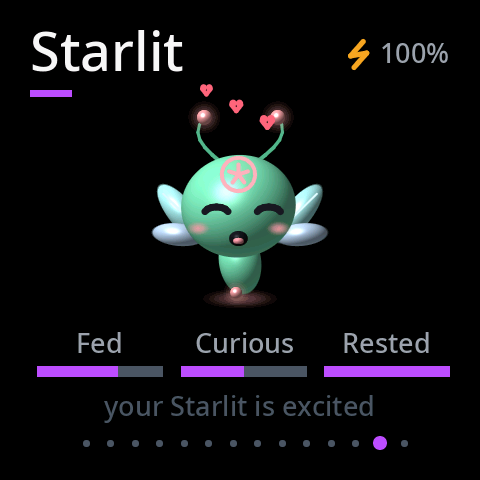
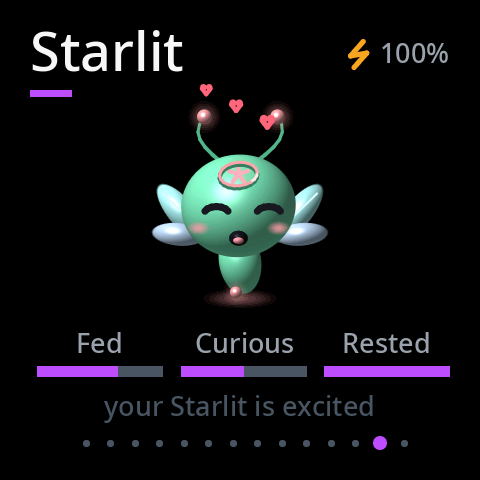
Starlits: the hash ring inlaid on the head; Friends scrolls at 60 fps
The path-hash ring now sits on the head: a flattened ring round the star,
following the head's curve and tilt, set in a faint groove, with a gleam
travelling round it (it floated above before).

Friends scrolling was ~20 fps: each frame redrew every Starlit (~100 ms), or
in the layer path, blended every pixel against Glass panes Friends doesn't
have (47 ms). Now the grid is drawn once into the layer soon after opening
(so a drag never waits) and slid with the new SF32Display::composeSprites,
which copies only what's drawn over the wallpaper: 10-13 ms a frame.

README Starlit shots retaken with the new ring.

Claude-Session: https://claude.ai/code/session_01BS1aGjNmWVV3cRX57ZjrXH

Changed region(s): [[0.4375, 0.3125, 0.5625, 0.4062], [0.5625, 0.2812, 0.5938, 0.3125], [0.4062, 0.2812, 0.4375, 0.3125]]

diff --git a/src/platform/SF32Display.cpp b/src/platform/SF32Display.cpp
@@ -576,6 +576,29 @@ void SF32Display::composeLayer(int x, int y, int w, int h, int src_px) {
   }
 }
 
+void SF32Display::composeSprites(int x, int y, int w, int h, int src_px) {
+  if (!glassActive()) { composeLayer(x, y, w, h, src_px); return; }  // a plain colour: a straight copy
+  int x0 = px_x(x), x1 = px_x(x + w), y0 = px_y(y), y1 = px_y(y + h);
+  if (x0 < 0) x0 = 0;
+  if (x1 > PANEL_W) x1 = PANEL_W;
+  x0 &= ~1; x1 &= ~1;  // pairs of pixels at a time
+  const uint16_t bg = UIColor::window_bkg;
+  const uint32_t bg2 = ((uint32_t)bg << 16) | bg;
+  for (int py = y0; py < y1; py++) {  // the frame already has the wallpaper: copy only what's drawn
+    int src = src_px + (py - y0);
+    if (py < 0 || py >= PANEL_H || src < 0 || src >= s_layer_h) continue;
+    const uint32_t* from = (const uint32_t*)(s_layer + src * PANEL_W + x0);
+    uint16_t* dst = s_fb + py * PANEL_W + x0;
+    for (int i = 0, n = (x1 - x0) / 2; i < n; i++) {
+      uint32_t v = from[i];
+      if (v == bg2) continue;  // the commonest by far
+      uint16_t a = v & 0xFFFF, b = v >> 16;
+      if (a != bg) dst[i * 2] = a;
+      if (b != bg) dst[i * 2 + 1] = b;
+    }
+  }
+}
+
 void SF32Display::setSquareLayout(bool square) {
   s_area_h = square ? AREA_W : WIDE_H;
   s_offset_y = (PANEL_H - s_area_h) / 2;

diff --git a/src/platform/SF32Display.h b/src/platform/SF32Display.h
@@ -38,6 +38,9 @@ public:
   uint32_t layerGen() const;  // changes whenever beginLayer() starts a new layer: still ours?
   void endLayer();
   void composeLayer(int x, int y, int w, int h, int src_px);
+  // The same for a layer of things drawn on the plain background (no panes), such as Starlits:
+  // only what differs from the background is copied (in Glass, the wallpaper shows behind).
+  void composeSprites(int x, int y, int w, int h, int src_px);
   // The same for a menu's rows (x = 4..124), by the graphics hardware: faster. layerRowsDone after
   // drawing rows into the layer (logical). composeList returns false if it couldn't: use composeLayer.
   void layerRowsDone(int y, int h);
